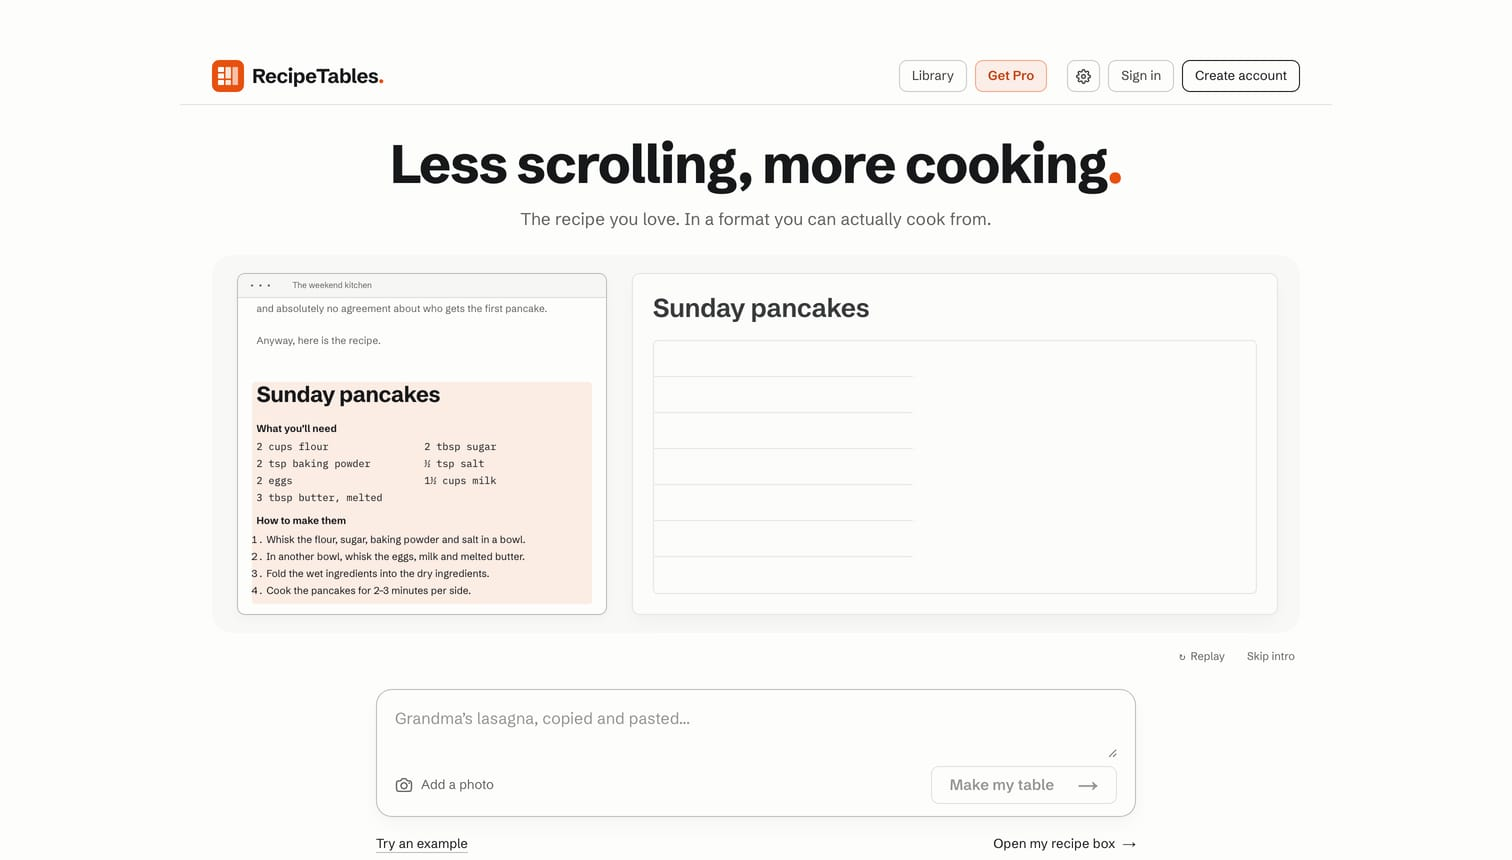
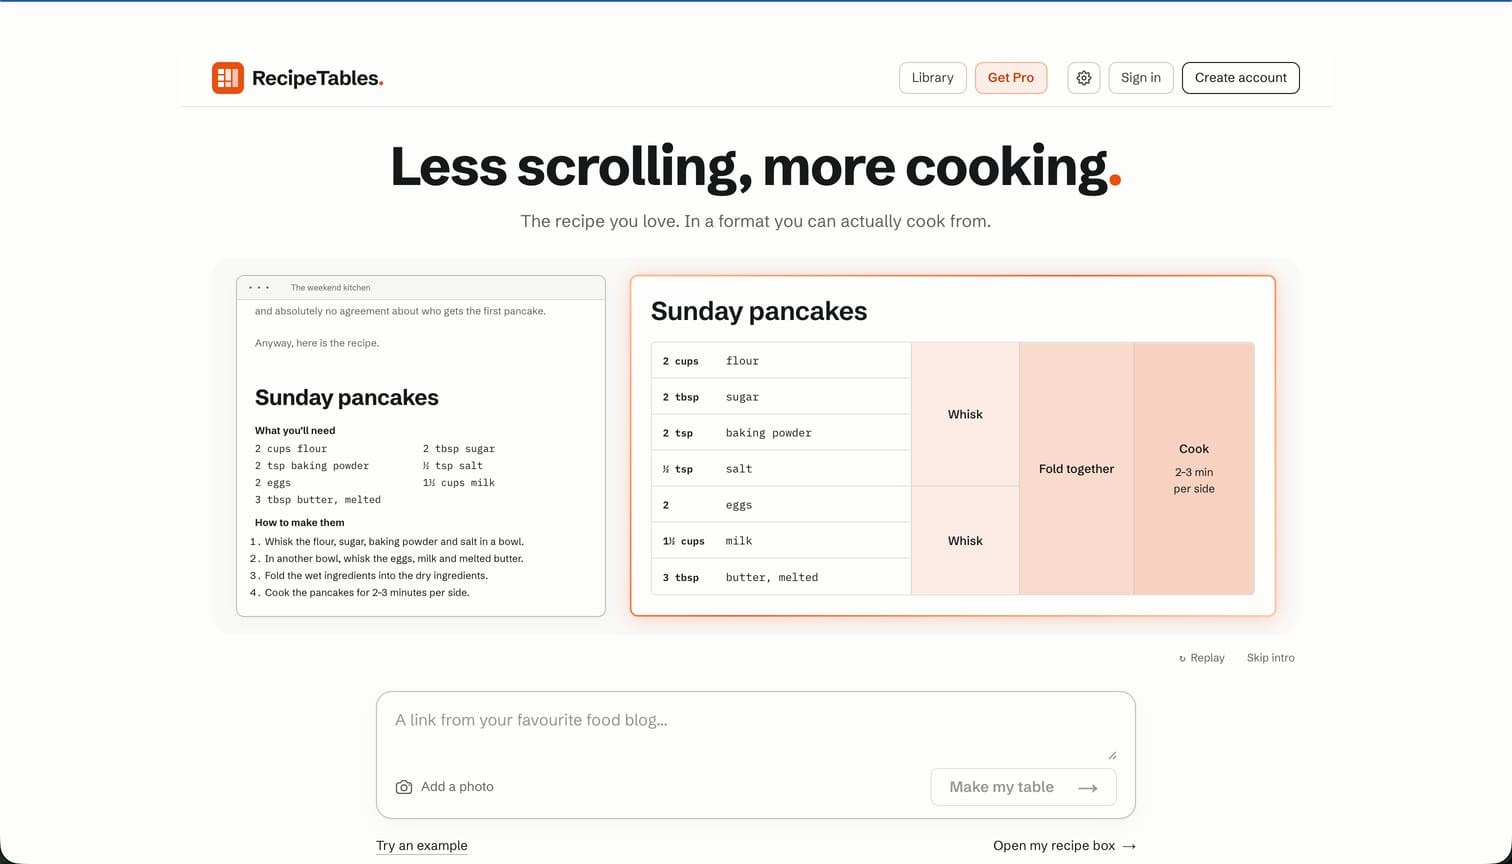
Recipe table publish and also modify the hidden tag

diff --git a/src/styles/site.css b/src/styles/site.css
@@ -117,8 +117,8 @@ main { max-width: 72rem; margin: 0 auto; }
 .wall .phonebox > .phone, .wall .phonebox > .draft { grid-area: 1 / 1; }
 .wall .phonebox > .draft { position: static; justify-self: center; align-self: start; margin-left: -29%; translate: 30% -0.45rem; }
 .ledger .acc .draft { position: static; display: inline-flex; margin-left: 0.5rem; transform: none; }
-.label.hidden { position: relative; }
-.label.hidden .draft { top: -0.7rem; left: 1.2rem; }
+/* on the detail page it sits on the top-left corner of the paper mat (or the "no picture yet" card) */
+.detail .mat .draft, .detail .noshot .draft { top: -0.7rem; left: 1.2rem; }
 /* three across; frames keep browser proportions (1512:860) */
 .wall { display: grid; grid-template-columns: repeat(3, 1fr); gap: 3rem 2.2rem; }
 .wall a { display: block; text-decoration: none; }
